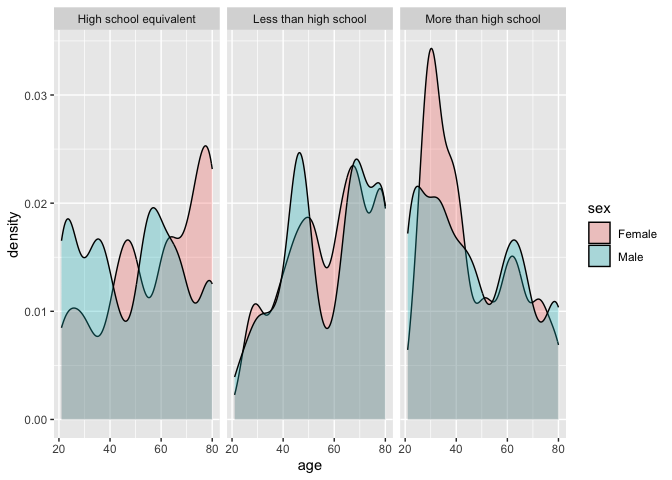
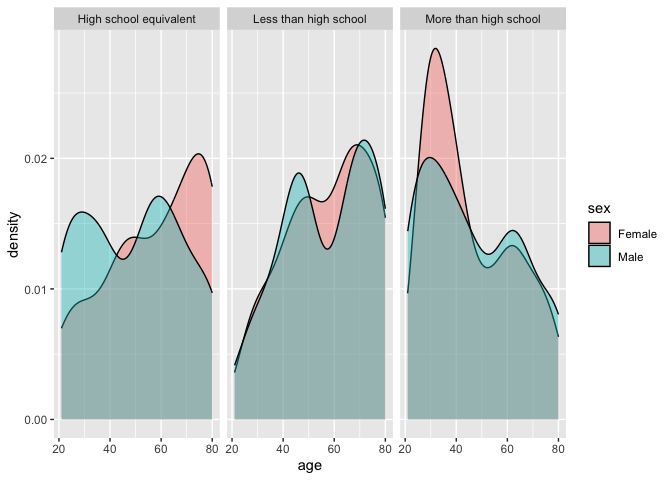
Adding descriptions and analyzing data

diff --git a/p8105_hw3_mj3229.md b/p8105_hw3_mj3229.md
@@ -29,6 +29,16 @@ data("instacart")
 instacart_df = instacart
 ```
 
+The Instacart dataset displays information on the many online grocery
+orders made by instacart users.The dataset contains 1,384,617
+observations of 131,209 unique users, where each row in the dataset is a
+product from an order. Some key variables include `user_id` which
+identifies the orderer, `aisle_id` that identifies the aisle,
+`order_dow` which indicates the day of the week on which the order was
+placed, `produce_name` which indicates name of the product and
+`department` and `aisle` for department and aisle names in which
+purchases are broken up into.
+
 ``` r
 instacart_df %>% 
   group_by(aisle) %>% 
@@ -48,6 +58,9 @@ instacart_df %>%
 
 ![](p8105_hw3_mj3229_files/figure-gfm/unnamed-chunk-2-1.png)<!-- -->
 
+There are 134 aisles with most items order from the fresh vegetables,
+fresh fruits, and packed vegetables fruits aisles.
+
 **Creating Tables Based on Aisle**
 
 ``` r
@@ -57,19 +70,18 @@ instacart_df %>%
   summarize(n_baking = n()) %>% 
   mutate(baking_rank = min_rank(desc(n_baking))) %>% 
   arrange(baking_rank) %>% 
-  filter(baking_rank <= 3)
+  filter(baking_rank <= 3) %>% 
+knitr::kable()
 ```
 
     ## `summarise()` has grouped output by 'aisle'. You can override using the
     ## `.groups` argument.
 
-    ## # A tibble: 3 × 4
-    ## # Groups:   aisle [1]
-    ##   aisle              product_name      n_baking baking_rank
-    ##   <chr>              <chr>                <int>       <int>
-    ## 1 baking ingredients Light Brown Sugar      499           1
-    ## 2 baking ingredients Pure Baking Soda       387           2
-    ## 3 baking ingredients Cane Sugar             336           3
+| aisle              | product_name      | n_baking | baking_rank |
+|:-------------------|:------------------|---------:|------------:|
+| baking ingredients | Light Brown Sugar |      499 |           1 |
+| baking ingredients | Pure Baking Soda  |      387 |           2 |
+| baking ingredients | Cane Sugar        |      336 |           3 |
 
 ``` r
 instacart_df %>% 
@@ -78,19 +90,18 @@ instacart_df %>%
   summarize(n_dog = n()) %>% 
   mutate(dog_rank = min_rank(desc(n_dog))) %>% 
   arrange(dog_rank) %>% 
-  filter(dog_rank <= 3)
+  filter(dog_rank <= 3) %>% 
+knitr::kable()
 ```
 
     ## `summarise()` has grouped output by 'aisle'. You can override using the
     ## `.groups` argument.
 
-    ## # A tibble: 3 × 4
-    ## # Groups:   aisle [1]
-    ##   aisle         product_name                                  n_dog dog_rank
-    ##   <chr>         <chr>                                         <int>    <int>
-    ## 1 dog food care Snack Sticks Chicken & Rice Recipe Dog Treats    30        1
-    ## 2 dog food care Organix Chicken & Brown Rice Recipe              28        2
-    ## 3 dog food care Small Dog Biscuits                               26        3
+| aisle         | product_name                                  | n_dog | dog_rank |
+|:--------------|:----------------------------------------------|------:|---------:|
+| dog food care | Snack Sticks Chicken & Rice Recipe Dog Treats |    30 |        1 |
+| dog food care | Organix Chicken & Brown Rice Recipe           |    28 |        2 |
+| dog food care | Small Dog Biscuits                            |    26 |        3 |
 
 ``` r
 instacart_df %>% 
@@ -99,26 +110,25 @@ instacart_df %>%
   summarize(n_packaged = n()) %>% 
   mutate(packaged_rank = min_rank(desc(n_packaged))) %>% 
   arrange(packaged_rank) %>% 
-  filter(packaged_rank <= 3)
+  filter(packaged_rank <= 3) %>% 
+knitr::kable()
 ```
 
     ## `summarise()` has grouped output by 'aisle'. You can override using the
     ## `.groups` argument.
 
-    ## # A tibble: 3 × 4
-    ## # Groups:   aisle [1]
-    ##   aisle                      product_name         n_packaged packaged_rank
-    ##   <chr>                      <chr>                     <int>         <int>
-    ## 1 packaged vegetables fruits Organic Baby Spinach       9784             1
-    ## 2 packaged vegetables fruits Organic Raspberries        5546             2
-    ## 3 packaged vegetables fruits Organic Blueberries        4966             3
+| aisle                      | product_name         | n_packaged | packaged_rank |
+|:---------------------------|:---------------------|-----------:|--------------:|
+| packaged vegetables fruits | Organic Baby Spinach |       9784 |             1 |
+| packaged vegetables fruits | Organic Raspberries  |       5546 |             2 |
+| packaged vegetables fruits | Organic Blueberries  |       4966 |             3 |
 
-Top three products in baking ingredients are light brown sugar, pure
-baking soda, and cane sugar. Top three products in dog food care are
-snack sticks chicken & rice recipe dog treats, organix chicken & brown
-rice recipe, and small dog biscuits. Lastly, the top three products in
-packaged vegetables fruits are organic baby spinach, organic
-raspberries, and organic blueberries.
+Top three products in baking ingredients are **light brown sugar, pure
+baking soda, and cane sugar**. Top three products in dog food care are
+**snack sticks chicken & rice recipe dog treats, organix chicken & brown
+rice recipe, and small dog biscuits**. Lastly, the top three products in
+packaged vegetables fruits are **organic baby spinach, organic
+raspberries, and organic blueberries**.
 
 **Creating Table for Pink Lady Apples and Coffee Ice Cream**
 
@@ -152,9 +162,6 @@ instacart_df %>%
 | Coffee Ice Cream |   15.2 |   13.8 |     12.3 |   13.8 |     15.3 |    14.3 |      15.4 |
 | Pink Lady Apples |   11.6 |   13.4 |     12.8 |   11.9 |     14.2 |    11.4 |      11.7 |
 
-There are 134 aisles with most items order from the fresh vegetables,
-fresh fruits, and packed vegetables fruits aisles.
-
 ## Problem 2
 
 ``` r
@@ -186,7 +193,7 @@ zori_df =
     ## ℹ Specify the column types or set `show_col_types = FALSE` to quiet this message.
 
 ``` r
-  knitr::kable(head(zori_df, 8))
+  knitr::kable(head(zori_df, 4))
 ```
 
 | county | region_id | size_rank | zip_code | region_type | state_name | city | metro | date | zillow observed rent index |
@@ -195,14 +202,10 @@ zori_df =
 | Queens | 62080 | 4 | 11368 | zip | NY | New York | New York-Newark-Jersey City, NY-NJ-PA | x2015_02_28 | NA |
 | Queens | 62080 | 4 | 11368 | zip | NY | New York | New York-Newark-Jersey City, NY-NJ-PA | x2015_03_31 | NA |
 | Queens | 62080 | 4 | 11368 | zip | NY | New York | New York-Newark-Jersey City, NY-NJ-PA | x2015_04_30 | NA |
-| Queens | 62080 | 4 | 11368 | zip | NY | New York | New York-Newark-Jersey City, NY-NJ-PA | x2015_05_31 | NA |
-| Queens | 62080 | 4 | 11368 | zip | NY | New York | New York-Newark-Jersey City, NY-NJ-PA | x2015_06_30 | NA |
-| Queens | 62080 | 4 | 11368 | zip | NY | New York | New York-Newark-Jersey City, NY-NJ-PA | x2015_07_31 | NA |
-| Queens | 62080 | 4 | 11368 | zip | NY | New York | New York-Newark-Jersey City, NY-NJ-PA | x2015_08_31 | NA |
 
 ``` r
 neighborhood_df = 
-  read_csv("./zillow_data/zip_codes.csv", na = c("NA", ".", "")) %>% 
+  read_csv("./zillow_data/zip_codes.csv", na = c("NA", ".", "")) %>%
   janitor::clean_names() %>% 
   relocate(county, neighborhood)
 ```
@@ -217,7 +220,7 @@ neighborhood_df =
     ## ℹ Specify the column types or set `show_col_types = FALSE` to quiet this message.
 
 ``` r
-  knitr::kable(head(neighborhood_df, 8))
+  knitr::kable(head(neighborhood_df, 4))
 ```
 
 | county | neighborhood | state_fips | county_code | county_fips | zip_code | file_date |
@@ -226,10 +229,6 @@ neighborhood_df =
 | Bronx | High Bridge and Morrisania | 36 | 005 | 36005 | 10452 | 7/25/07 |
 | Bronx | Central Bronx | 36 | 005 | 36005 | 10453 | 7/25/07 |
 | Bronx | Hunts Point and Mott Haven | 36 | 005 | 36005 | 10454 | 7/25/07 |
-| Bronx | Hunts Point and Mott Haven | 36 | 005 | 36005 | 10455 | 7/25/07 |
-| Bronx | High Bridge and Morrisania | 36 | 005 | 36005 | 10456 | 7/25/07 |
-| Bronx | Central Bronx | 36 | 005 | 36005 | 10457 | 7/25/07 |
-| Bronx | Bronx Park and Fordham | 36 | 005 | 36005 | 10458 | 7/25/07 |
 
 **Merging Datasets**
 
@@ -238,7 +237,7 @@ zillow_df =
   left_join(zori_df, neighborhood_df, by = c("zip_code", "county")) %>%
   janitor::clean_names() %>% 
   relocate(county, neighborhood, zip_code, zillow_observed_rent_index)
-  knitr::kable(head(zillow_df, 8))
+  knitr::kable(head(zillow_df, 4))
 ```
 
 | county | neighborhood | zip_code | zillow_observed_rent_index | region_id | size_rank | region_type | state_name | city | metro | date | state_fips | county_code | county_fips | file_date |
@@ -247,10 +246,6 @@ zillow_df =
 | Queens | West Queens | 11368 | NA | 62080 | 4 | zip | NY | New York | New York-Newark-Jersey City, NY-NJ-PA | x2015_02_28 | 36 | 081 | 36081 | 7/25/07 |
 | Queens | West Queens | 11368 | NA | 62080 | 4 | zip | NY | New York | New York-Newark-Jersey City, NY-NJ-PA | x2015_03_31 | 36 | 081 | 36081 | 7/25/07 |
 | Queens | West Queens | 11368 | NA | 62080 | 4 | zip | NY | New York | New York-Newark-Jersey City, NY-NJ-PA | x2015_04_30 | 36 | 081 | 36081 | 7/25/07 |
-| Queens | West Queens | 11368 | NA | 62080 | 4 | zip | NY | New York | New York-Newark-Jersey City, NY-NJ-PA | x2015_05_31 | 36 | 081 | 36081 | 7/25/07 |
-| Queens | West Queens | 11368 | NA | 62080 | 4 | zip | NY | New York | New York-Newark-Jersey City, NY-NJ-PA | x2015_06_30 | 36 | 081 | 36081 | 7/25/07 |
-| Queens | West Queens | 11368 | NA | 62080 | 4 | zip | NY | New York | New York-Newark-Jersey City, NY-NJ-PA | x2015_07_31 | 36 | 081 | 36081 | 7/25/07 |
-| Queens | West Queens | 11368 | NA | 62080 | 4 | zip | NY | New York | New York-Newark-Jersey City, NY-NJ-PA | x2015_08_31 | 36 | 081 | 36081 | 7/25/07 |
 
 **Zip Code Counts**
 
@@ -268,8 +263,10 @@ zip_counts2 =
   filter(n_obs < 10)
 ```
 
-149 zip codes are observed 116 times and 0 are observed less than 10
-times
+**149 zip codes** are observed 116 times and **0** are observed less
+than 10 times. Some zip codes appear fewer because they may be secluded
+and have a small population. They can also be newer zip codes that
+aren’t properly defined leading to less counts.
 
 **Average rental price in each borough and year**
 
@@ -281,32 +278,29 @@ zillow2_df =
   separate(date, into = c("year", "month", "day"), sep = "_") %>% 
   group_by(county, year) %>% 
   summarize(
-    mean_zori = mean(zillow_observed_rent_index, na.rm = TRUE)
+    mean_zori = mean(zillow_observed_rent_index, na.rm = TRUE),         .groups = "drop"
   ) %>% 
   filter(!is.na(mean_zori)) %>% 
   rename(
     "Borough" = county,
-    "Year" = year,
-    "Average Rental Price" = mean_zori)
-```
-
-    ## `summarise()` has grouped output by 'county'. You can override using the
-    ## `.groups` argument.
-
-``` r
+    "Year" = year) %>% 
+  pivot_wider(
+    names_from = "Borough",
+    values_from = mean_zori
+  )
   knitr::kable(head(zillow2_df, 8))
 ```
 
-| Borough | Year | Average Rental Price |
-|:--------|:-----|---------------------:|
-| Bronx   | 2015 |             1759.595 |
-| Bronx   | 2016 |             1520.194 |
-| Bronx   | 2017 |             1543.599 |
-| Bronx   | 2018 |             1639.430 |
-| Bronx   | 2019 |             1705.589 |
-| Bronx   | 2020 |             1811.443 |
-| Bronx   | 2021 |             1857.777 |
-| Bronx   | 2022 |             2054.267 |
+| Year |    Bronx |    Kings | New York |   Queens | Richmond |
+|:-----|---------:|---------:|---------:|---------:|---------:|
+| 2015 | 1759.595 | 2492.928 | 3022.042 | 2214.707 |       NA |
+| 2016 | 1520.194 | 2520.357 | 3038.818 | 2271.955 |       NA |
+| 2017 | 1543.599 | 2545.828 | 3133.848 | 2263.303 |       NA |
+| 2018 | 1639.430 | 2547.291 | 3183.703 | 2291.918 |       NA |
+| 2019 | 1705.589 | 2630.504 | 3310.408 | 2387.816 |       NA |
+| 2020 | 1811.443 | 2555.051 | 3106.517 | 2315.632 | 1977.608 |
+| 2021 | 1857.777 | 2549.890 | 3136.632 | 2210.787 | 2045.430 |
+| 2022 | 2054.267 | 2868.199 | 3778.375 | 2406.038 | 2147.436 |
 
 The table indicates how average rent price has increased throughout all
 boroughs over the years. There are specifically big changes in the New
@@ -405,7 +399,7 @@ Category**
 ``` r
 nhanes_df %>% 
   ggplot(aes(x = age, fill = sex)) +
-  geom_density(alpha = .3, adjust = .5) +
+  geom_density(alpha = .4, adjust = .8) +
   facet_wrap(~ education)
 ```
 
@@ -423,21 +417,48 @@ nhanes_df %>%
 
     ## NULL
 
+Looking at the table, we see the distribution between men and female in
+different levels of education is pretty even except for in the high
+school equivalent category. In the density plot, we see the distribution
+of both sexes across ages in different education categories. Those with
+less than high school education tend to be on the older end while those
+with more than high school education lean towards younger/middle-age
+ranges. Men and women have a broadly similar distribution, however,
+women do tend to be on the older end throughout the categories (except
+for more than high school education). Specifically women with more than
+high school education are generally younger as we can see a high peak.
+
 **Total Activity**
 
 ``` r
 nhanes_df %>% 
   mutate(total_activity = rowSums(across(min1:min45), na.rm = TRUE)) %>% 
-  select(seqn, sex, age, bmi, education, total_activity ) %>% 
-  ggplot(aes(x = age, y = total_activity)) +
+  select(seqn, sex, age, bmi, education, total_activity) %>% 
+  ggplot(aes(x = age, y = total_activity, color = sex)) +
   geom_point() +
   geom_smooth(se = FALSE) +
-  facet_wrap(~ sex)
+  facet_wrap(~ education) +
+  labs(
+    title = "Total Daily Activity by Age and Education Level Across Different Sexes",
+    x = "Age(years)",
+    y = "Total Daily Activity",
+    color = "Sex"
+  ) +
+  theme(legend.position = "bottom")
 ```
 
     ## `geom_smooth()` using method = 'loess' and formula = 'y ~ x'
 
 ![](p8105_hw3_mj3229_files/figure-gfm/unnamed-chunk-13-1.png)<!-- -->
+
+We can see an overall declining trend in total activity as we approach
+an older age in both men and women across the different education
+categories. Regarding sex, men tend to have higher total daily activity
+than women, except with those in high school equivalent category around
+the age of 50.There is more variability in the less than high school
+category but sharp declines in activity with aging. Lastly, those with
+more than high school education, have more stable total activity with
+lower activity comparitively.
 
 **24 Hour Activity Time Courses**
 
@@ -464,15 +485,27 @@ activity_df %>%
   geom_smooth(se = FALSE) +
   facet_wrap(~ education, ncol = 1) +
   scale_x_continuous(breaks = seq(0, 24, by = 3)) +
+  scale_y_continuous(breaks = seq(0, 20, by = 2)) +
   labs(
     title = "24-Hour Activity Time Course by Sex and Education",
     x = "Hour",
     y = "Mean Activity",
     color = "Sex"
   ) +
-  theme_minimal()
+  theme_minimal() +
+  theme(legend.position = "bottom")
 ```
 
     ## `geom_smooth()` using method = 'gam' and formula = 'y ~ s(x, bs = "cs")'
 
 ![](p8105_hw3_mj3229_files/figure-gfm/unnamed-chunk-14-1.png)<!-- -->
+
+Across all education levels and genders, activity is lowest during the
+end of the day (night) and activity is highest mid day (around 9th-15th
+hour). Those with less than high school education slightly have higher
+activity for a longer period of time, suggesting more physically
+demanding jobs. In men with more than high school education, we are
+seeing slightly less mean activity compared to other groups through
+different education categories. This may be described by more computer
+work. Lastly, we see a sharp decline towards the end of the day
+throughout all sexes and education categories.
